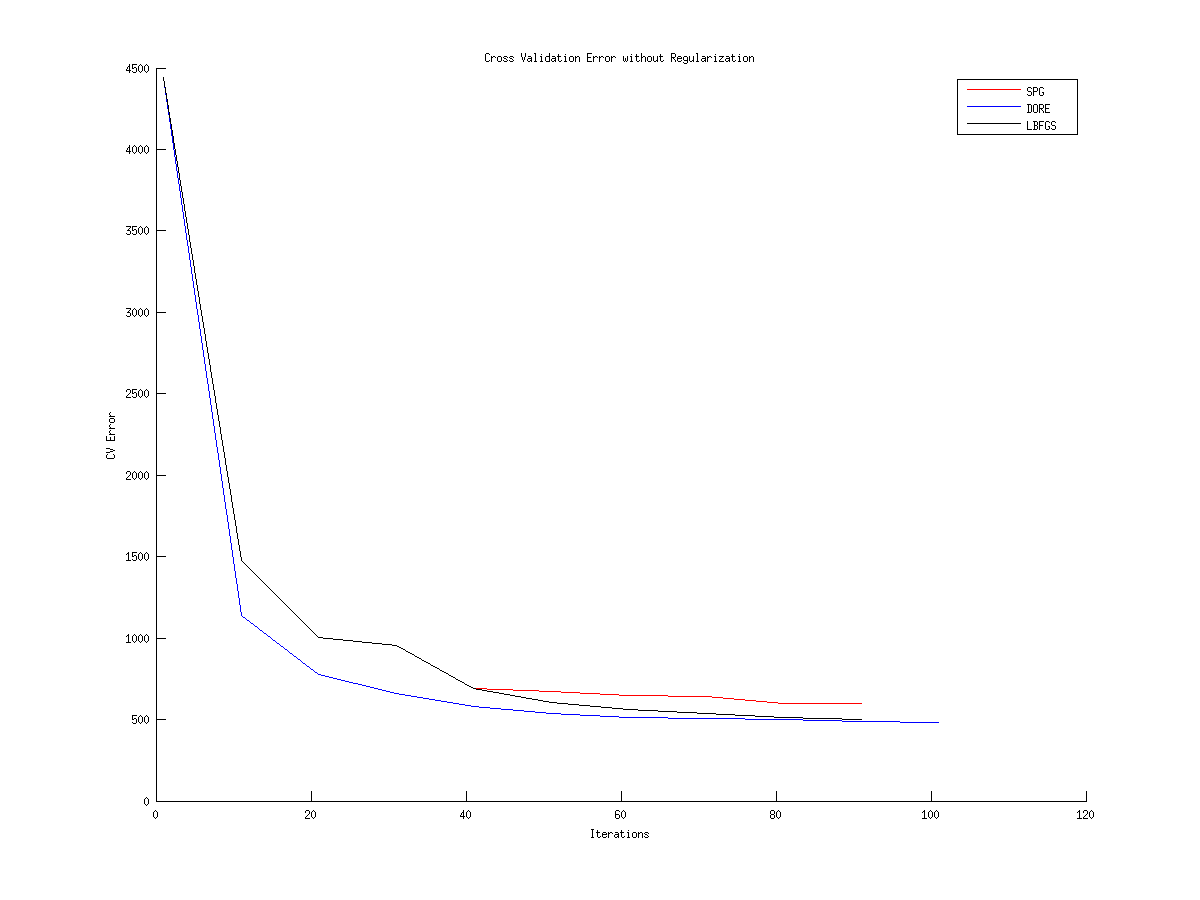
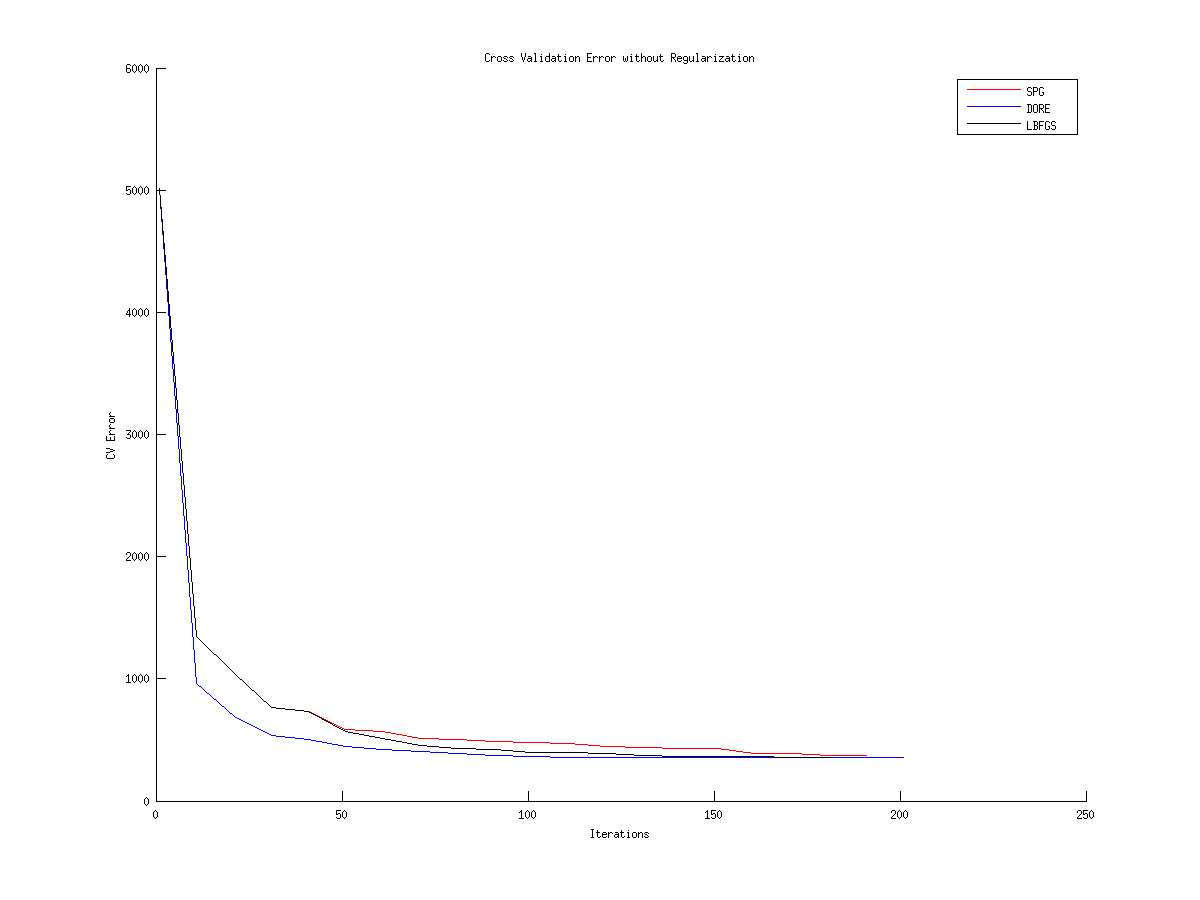
This change adds python DORE implementation

Changed region(s): [[0.3083, 0.8089, 0.4317, 0.84], [0.6167, 0.7778, 0.7092, 0.8089]]

diff --git a/python/main.py b/python/main.py
@@ -4,9 +4,13 @@ from util import PROB_SIMPLEX, EQ_CONSTR_ELIM, \
         L_BFGS, ADMM, SPG, load_data
 import util
 import numpy as np
+import numpy.linalg as la
 from numpy import ones, array
+from proj_PAV import simplex_projection
+import matplotlib.pyplot as plt
 import argparse
 import logging
+import operator
 
 ACCEPTED_LOG_LEVELS = ['CRITICAL', 'ERROR', 'WARNING', 'INFO', 'DEBUG', 'WARN']
 
@@ -23,7 +27,8 @@ def main():
 
     A, b, N, block_sizes, x_true = load_data(args.file)
     sio.savemat('fullData.mat', {'A':A,'b':b,'N':block_sizes,'N2':N,'x_true':x_true})
-    exit()
+
+    x_true = np.squeeze(np.asarray(x_true))
 
     # Sample usage
     #P = A.T.dot(A)
@@ -31,19 +36,45 @@ def main():
     #solvers.qp2(P, q, block_sizes=block_sizes, constraints={PROB_SIMPLEX}, \
     #        reduction=EQ_CONSTR_ELIM, method=L_BFGS)
 
-    print block_sizes.shape
-    print block_sizes
+    logging.debug("Blocks: %s" % block_sizes.shape)
     x0 = util.block_e(block_sizes - 1, block_sizes)
-    logging.info("Computing AN")
-    AN = util.AN(A, N)
-    logging.info("Computation complete")
-    q = -(AN.T.dot(b-np.squeeze(A.dot(x0))))
-    logging.debug('q has %d dimensions' % q.ndim)
-    logging.info("Computing AN'AN")
-    #P = AN.T.dot(AN)
-    logging.info("Computation complete")
-    solvers.qp2(AN, q, block_sizes=block_sizes, constraints={PROB_SIMPLEX}, \
-            method=SPG, reduction=EQ_CONSTR_ELIM)
+    target = b-np.squeeze(A.dot(x0))
+
+    lsv = util.lsv_operator(A, N)
+    logging.info("Largest singular value: %s" % lsv)
+    A_dore = A*0.99/lsv
+    target_dore = target*0.99/lsv
+
+    progress = {}
+
+    def diagnostics(value, iter_):
+        progress[iter_] = la.norm(A.dot(N.dot(value)) - target, 2)
+
+    z = solvers.least_squares(lambda z: A_dore.dot(N.dot(z)), lambda b: N.T.dot(A_dore.T.dot(b)), \
+            target_dore, lambda x: simplex_projection(block_sizes - 1, x), \
+            np.zeros(N.shape[1]), diagnostics=diagnostics)
+    xDORE = np.squeeze(np.asarray(N.dot(z) + x0))
+    x_init = np.squeeze(np.asarray(x0))
+
+    logging.debug("Shape of x_init: %s" % repr(x_init.shape))
+    logging.debug("Shape of xDORE: %s" % repr(xDORE.shape))
+
+    starting_error = la.norm(A.dot(x_init)-b)
+    training_error = la.norm(A.dot(xDORE)-b)
+    dist_from_true = np.max(np.abs(xDORE-x_true))
+    start_dist_from_true = np.max(np.abs(x_true-x_init))
+
+    A_dore = None
+
+    print 'norm(A*x-b): %8.5e\nnorm(A*x_init-b): %8.5e\nmax|x-x_true|: %.2f\nmax|x_init-x_true|: %.2f\nCV error: %8.5e\n\n\n' % \
+        (training_error, starting_error, dist_from_true, start_dist_from_true, 0)
+    plt.figure()
+    plt.hist(xDORE)
+
+    progress = sorted(progress.iteritems(), key=operator.itemgetter(0))
+    plt.figure()
+    plt.plot([p[0] for p in progress], [p[1] for p in progress])
+    plt.show()
 
 if __name__ == "__main__":
     main()

diff --git a/python/dore.py b/python/dore.py
@@ -1,0 +1,76 @@
+import numpy as np
+import scipy.sparse
+from numpy import linalg as la
+import random
+
+def solve(linop, linop_T, target, projection, initial, diagnostics = None, i = 10000, eps = 10**-16):
+    """Solves DORE accelerated least squares via projection
+    @param diagnostics is a closure that accepts the current solution and iteration number
+    """
+    x = np.squeeze(np.asarray(target))
+    y = np.squeeze(np.asarray(initial))
+    n = initial.shape[0]
+
+    y_start = y
+    y_prev = y
+    phi_y = 0
+    old_phi_y = 0
+    very_old_phi_y = 0
+
+    for iter_ in xrange(i):
+        very_old_phi_y = old_phi_y
+        old_phi_y = phi_y
+        phi_y = linop(y)
+        phi_y = np.squeeze(np.asarray(phi_y))
+        err = x - phi_y
+        norm_change = ((la.norm(y - y_prev)**2))
+        print err.dot(err), norm_change, la.norm(y)
+
+        if (iter_ % 10 == 0) and diagnostics is not None:
+            diagnostics(y, iter_)
+
+        if iter_ > 0 and (norm_change <= eps):
+            break
+        y_new = y + np.squeeze(np.asarray(linop_T(err)))
+
+        y_new = projection(y_new)
+        phi_y = linop(y_new)
+        phi_y = np.squeeze(phi_y)
+        err = x - phi_y
+
+        if iter_ > 2:
+            delta_phi_y = phi_y - old_phi_y
+            dp = delta_phi_y.dot(delta_phi_y)
+            if dp > 0:
+                a1 = delta_phi_y.dot(err)/dp
+                phi_y_1 = (1+a1)*phi_y - a1*old_phi_y
+                y_1 = y_new + a1*(y_new - y)
+                err_1 = x - phi_y_1
+
+                delta_phi_y = phi_y_1 - very_old_phi_y
+                dp = delta_phi_y.dot(delta_phi_y)
+                if dp > 0:
+                    a2 = delta_phi_y.dot(err_1)/dp
+                    y_2 = y_1 + a2*(y_1 - y_prev)
+                    y_2 = projection(y_2)
+
+                    phi_y_2 = linop(y_2)
+                    phi_y_2 = np.squeeze(np.asarray(phi_y_2))
+                    err_2 = x - phi_y_2
+
+                    if err_2.dot(err_2) / err.dot(err) < 1:
+                        y_select = y_2
+                        phi_y = phi_y_2
+                    else:
+                        y_select = y_new
+                else:
+                    y_select = y_new
+            else:
+                y_select = y_new
+        else:
+            y_select = y_new
+
+        y_prev = y
+        y = y_select
+
+    return y

diff --git a/python/util.py b/python/util.py
@@ -1,4 +1,8 @@
+import scipy.sparse
+import scipy.sparse.linalg
+import scipy.sparse.linalg as sla
 import numpy as np
+import scipy.io as sio
 from scipy.linalg import block_diag
 import scipy.sparse as sps
 import scipy.io as sio
@@ -113,3 +117,24 @@ def AN(A,N):
 # Do we ever use U?
 def U(block_sizes):
     pass
+
+def lsv_operator(A, N):
+    def matmuldyad(v):
+        return A.dot(N.dot(v))
+
+    def rmatmuldyad(v):
+        return N.T.dot(A.T.dot(v))
+    normalized_lin_op = scipy.sparse.linalg.LinearOperator((A.shape[0], N.shape[1]), matmuldyad, rmatmuldyad)
+
+    def matvec_XH_X(v):
+        return normalized_lin_op.rmatvec(normalized_lin_op.matvec(v))
+
+    which='LM'
+    v0=None
+    maxiter=None
+    return_singular_vectors=False
+
+    XH_X = scipy.sparse.linalg.LinearOperator(matvec=matvec_XH_X, dtype=A.dtype, shape=(N.shape[1], N.shape[1]))
+    eigvals = sla.eigs(XH_X, k=1, tol=0, maxiter=None, ncv=10, which=which, v0=v0, return_eigenvectors=False)
+    lsv = np.sqrt(eigvals)
+    return lsv[0].real

diff --git a/python/solvers.py b/python/solvers.py
@@ -1,5 +1,6 @@
 from util import is_ones, all_equal, block_e, PROB_SIMPLEX, EQ_CONSTR_ELIM, \
         L_BFGS, ADMM, SPG
+import dore
 import numpy as np
 import scipy.io as sio
 from numpy import ones, array
@@ -31,3 +32,6 @@ def qp2(P, q, G=None, h=None, A=None, b=None, solver=None, initvals=None, \
                 pass
     else:
         print "'block_sizes' parameter required"
+
+def least_squares(linop, linop_transpose, target, projection, initial, diagnostics):
+    return dore.solve(linop, linop_transpose, target, projection, initial, diagnostics, i = 200)
